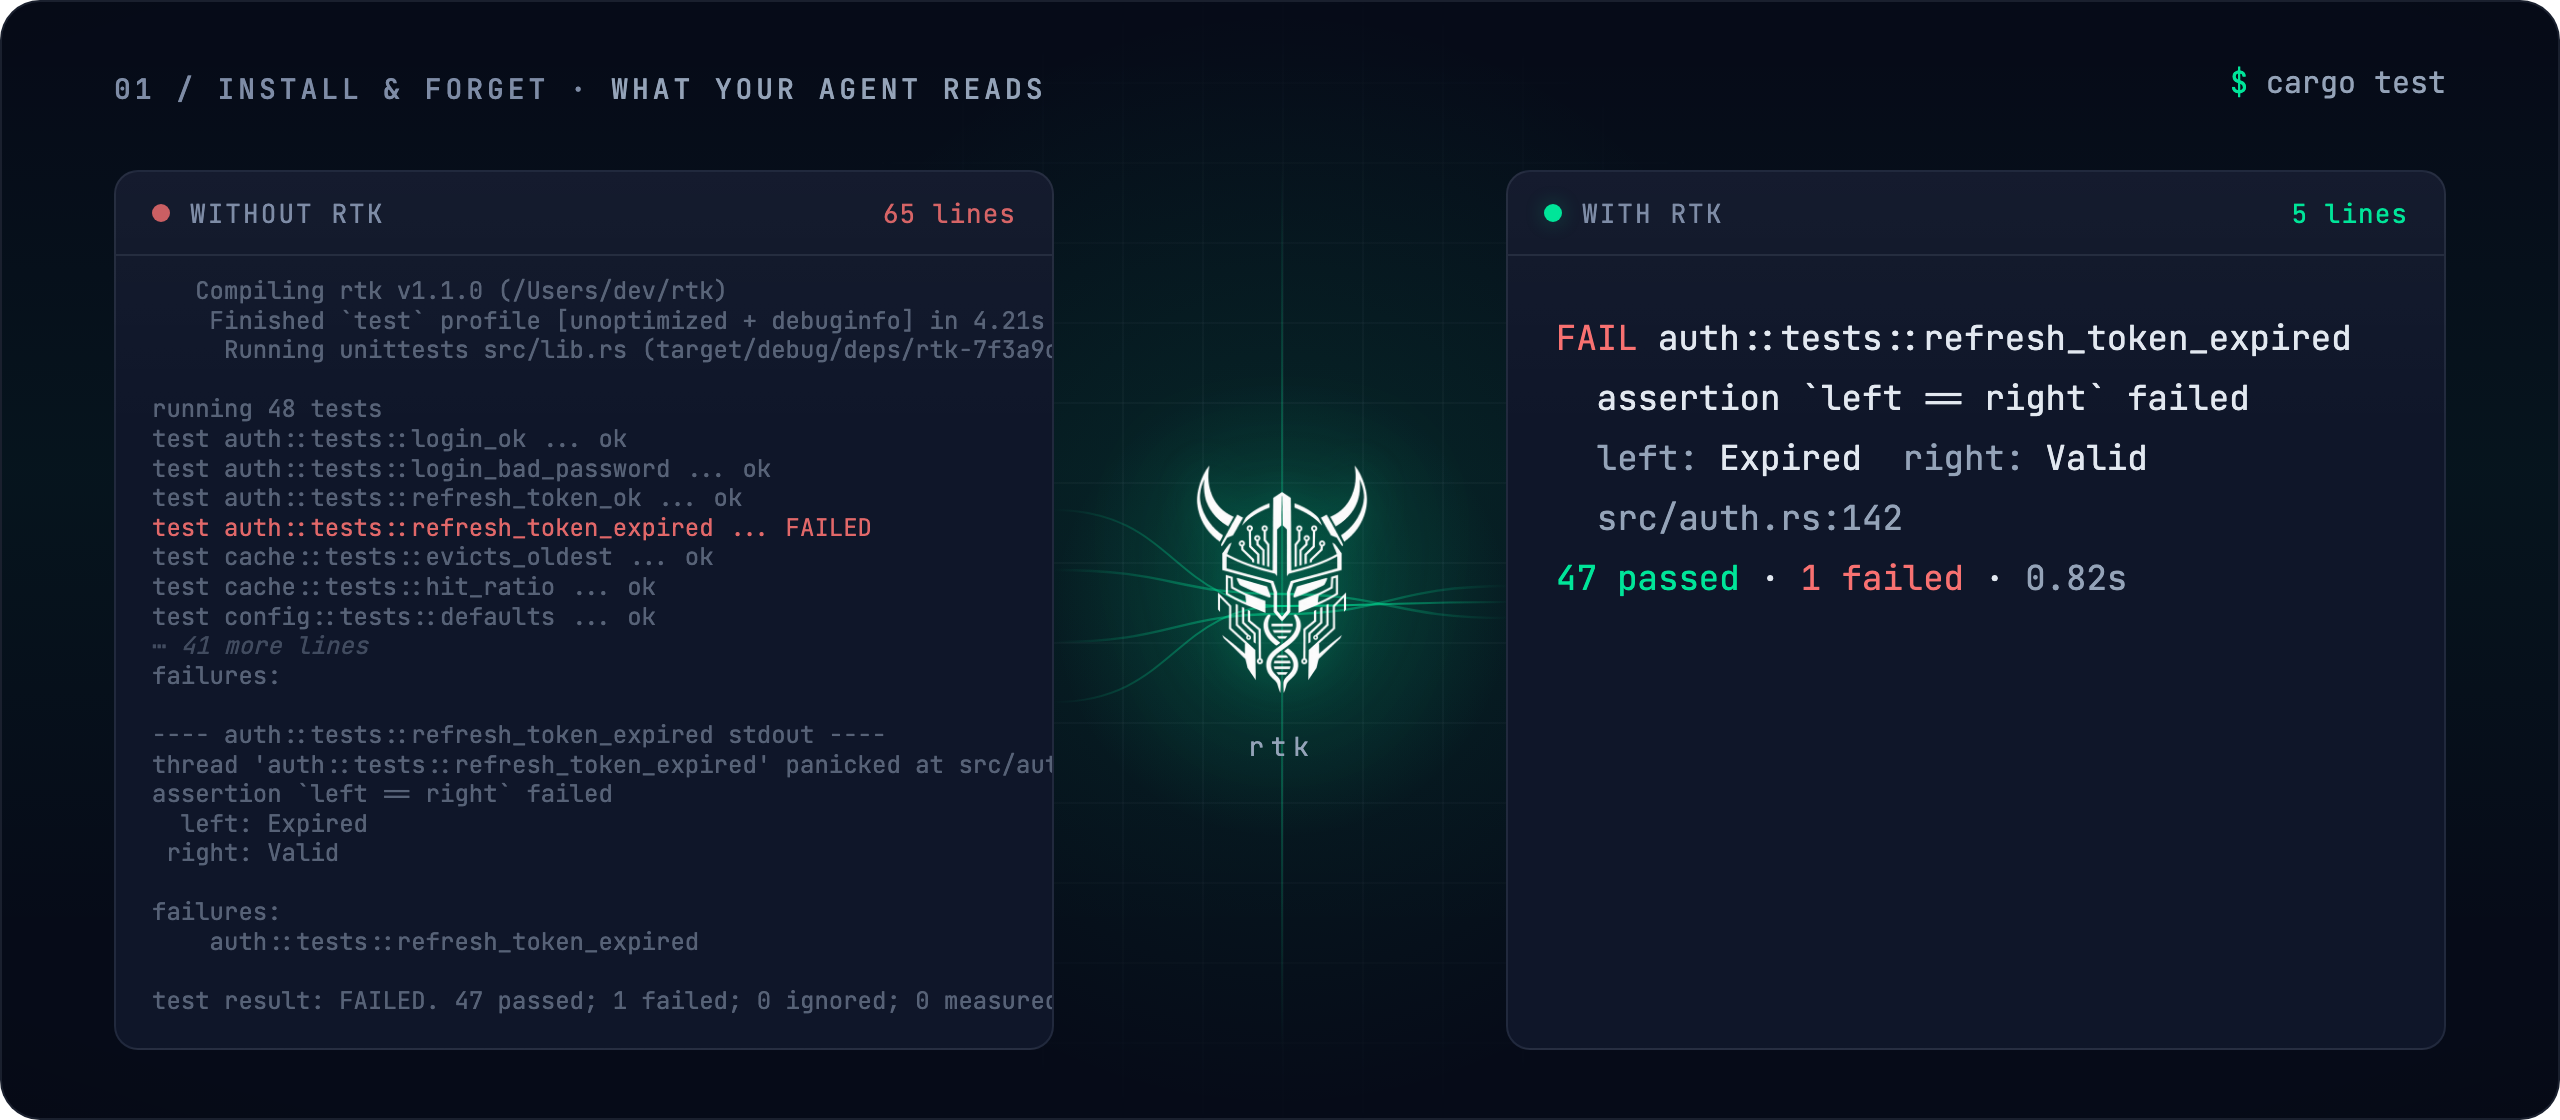
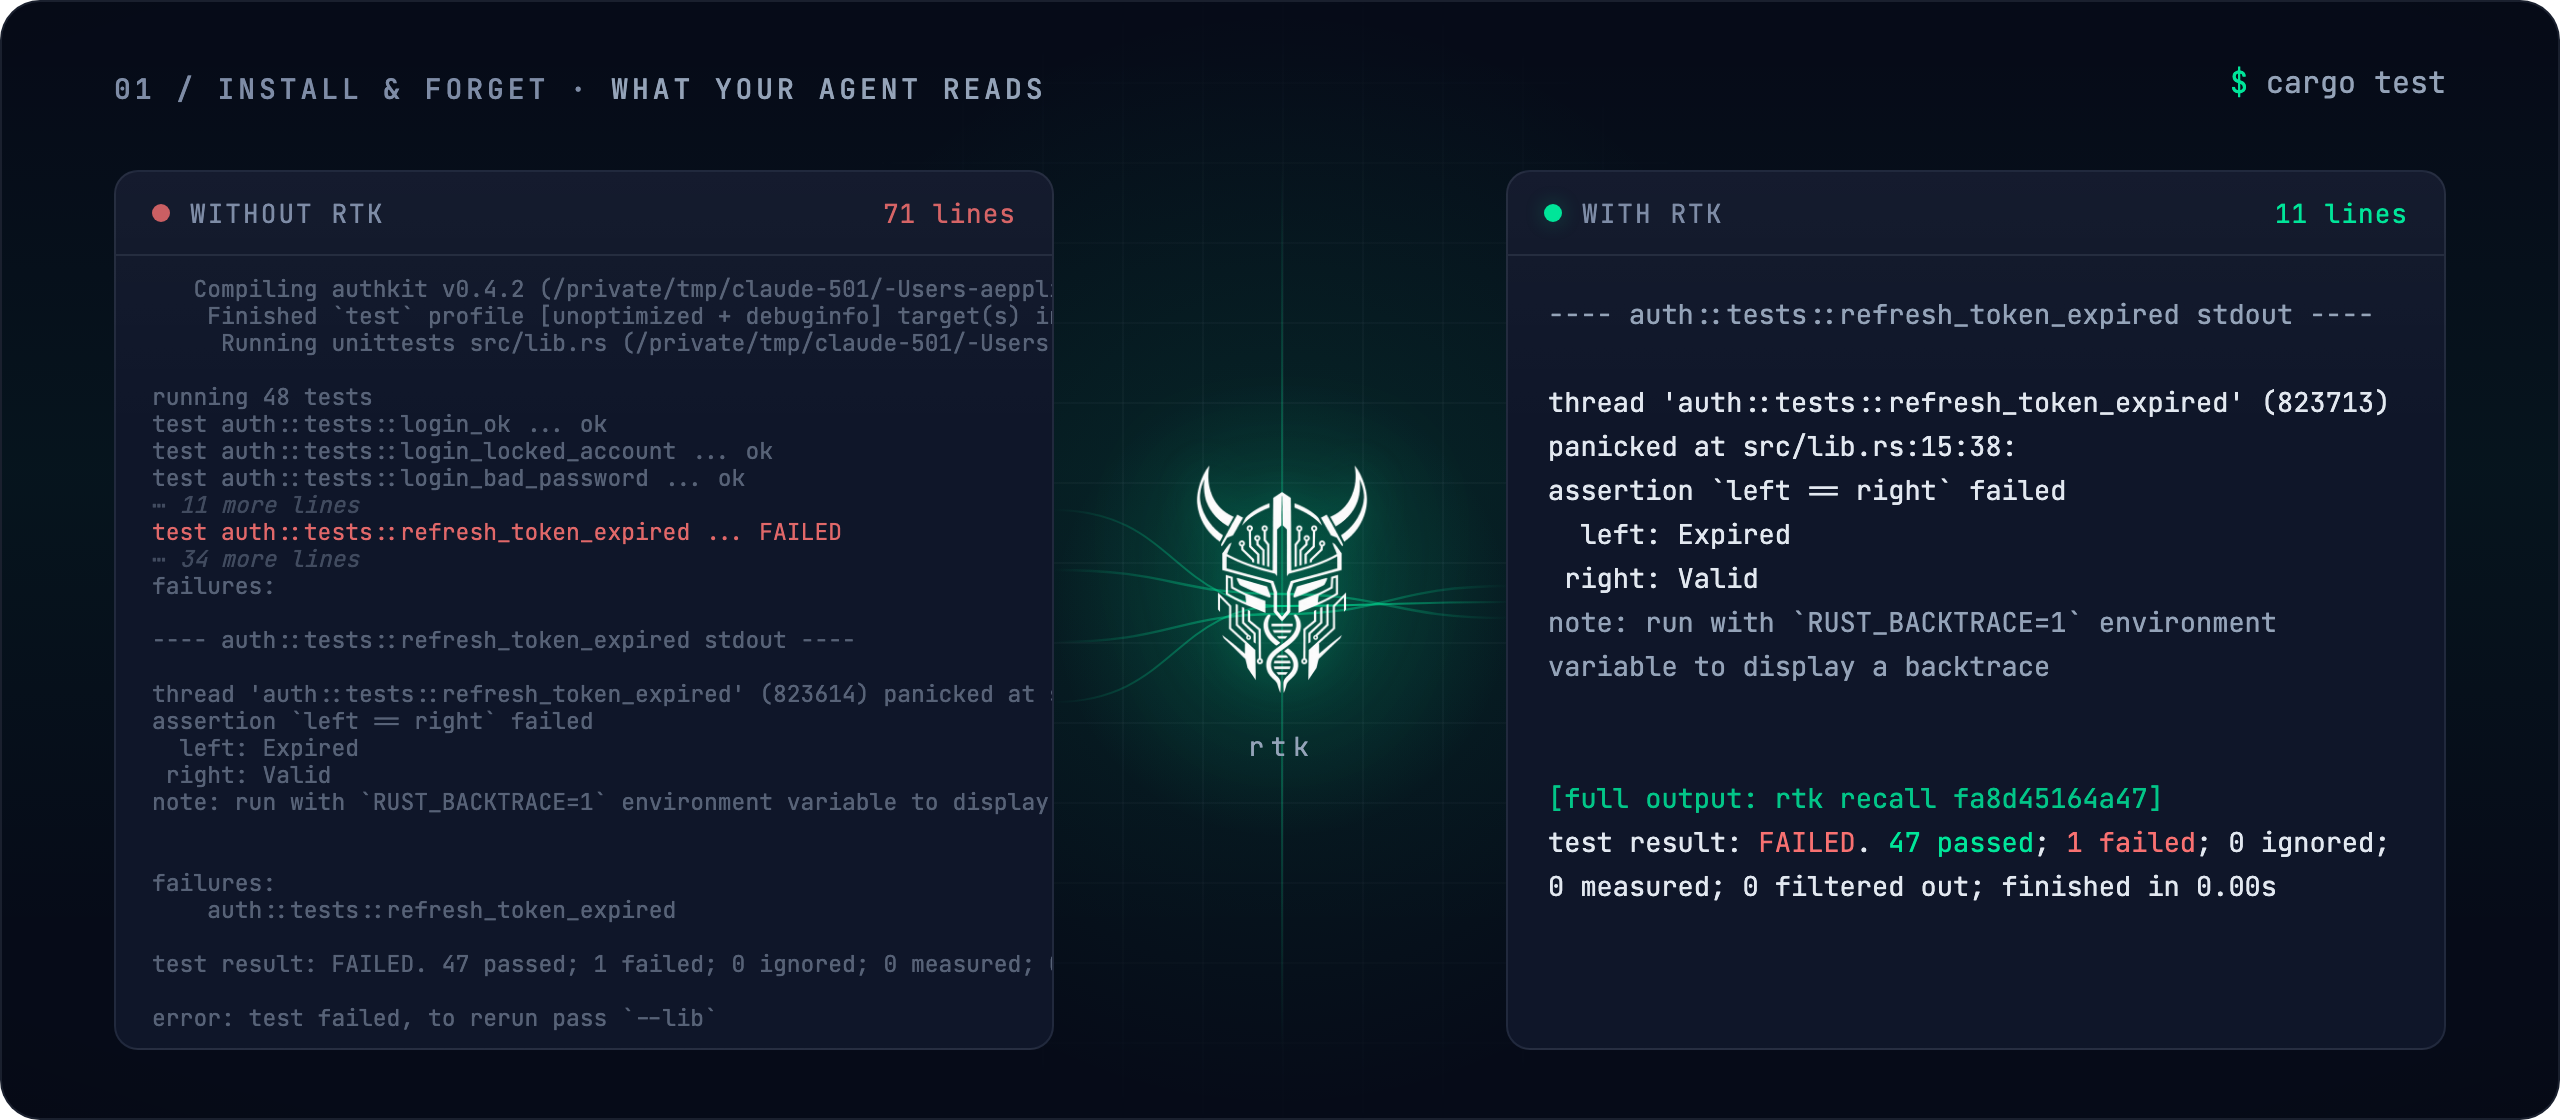
docs(readme): real cargo test output in the before/after, a feature showcase for pipelines
The before/after panel now shows a captured run, not invented text: a
48-test crate with one failing assertion, 71 raw lines through
`rtk bypass cargo test`, the 11 lines rtk prints, including its own
`[full output: rtk recall …]` line. Elisions in the raw panel carry
their exact counts.

The pipelines picture no longer draws hooks, lanes and rule names,
which told a reader how rtk is built rather than what it does for
them. It is now four cards, each a thing to turn on with the line
that turns it on, where it works, and the one number that is
measured, plus the share/install band with the best listed benchmark.

diff --git a/.github/assets/src/go-further.html b/.github/assets/src/go-further.html
@@ -1,0 +1,89 @@
+<!doctype html>
+<html><head><meta charset="utf-8">
+<!-- Each card maps to a shipped pipeline or command:
+     1 rtk:default (engine/builtin/default.toml)        2 rtk:posthook (posthook.toml, Claude Code)
+     3 rtk:delegate-reads (file_lines_gt = 350, Claude Code)  4 rtk:proxy + `rtk claude`
+     Numbers: "up to 90%" is command output; −20.2% is the best author benchmark listed on
+     rtk-ai.app/pipelines (laya-tiered). No other figure is published, so no other card has one. -->
+<link rel="preconnect" href="https://fonts.googleapis.com">
+<link href="https://fonts.googleapis.com/css2?family=Geist:wght@400;500;600&family=JetBrains+Mono:wght@400;500&display=block" rel="stylesheet">
+<style>
+:root{--bg:#060b18;--bg-card:#0f1629;--text:#e2e8f0;--text-bright:#f8fafc;--text-muted:#94a3b8;--text-dim:#7e8ca6;--accent:#00e599;--accent-hover:#00cc88;--accent-dim:rgba(0,229,153,.10);--accent-glow:rgba(0,229,153,.25);--scene:rgba(0,229,153,.09);--tint:rgba(0,229,153,.045);--vignette:rgba(0,0,0,.42);--grid:rgba(148,163,184,.05);--line:rgba(148,163,184,.14)}
+*{margin:0;padding:0;box-sizing:border-box}
+html,body{width:1280px;height:600px;background:transparent}
+.card{position:relative;width:1280px;height:600px;border-radius:20px;overflow:hidden;background:var(--bg);border:1px solid var(--line);isolation:isolate;font-family:'Geist','Inter',sans-serif;color:var(--text)}
+.atmo{position:absolute;inset:0;z-index:-1;background-image:
+ radial-gradient(ellipse 40% 80% at 18% 45%,var(--scene),transparent 62%),
+ linear-gradient(180deg,transparent 4%,var(--tint) 42%,transparent 84%),
+ radial-gradient(ellipse 120% 105% at 50% 48%,transparent 56%,var(--vignette) 100%)}
+.grid{position:absolute;inset:0;z-index:-1;background-image:linear-gradient(var(--grid) 1px,transparent 1px),linear-gradient(90deg,var(--grid) 1px,transparent 1px);background-size:40px 40px;-webkit-mask-image:radial-gradient(ellipse 40% 70% at 18% 45%,#000 20%,transparent 75%)}
+.eyebrow{position:absolute;left:56px;top:34px;font-family:'JetBrains Mono',monospace;font-weight:500;font-size:14px;letter-spacing:.14em;text-transform:uppercase;color:var(--text-dim)}
+.eyebrow b{color:var(--text-muted);font-weight:500}
+.file{position:absolute;right:56px;top:30px;font-family:'JetBrains Mono',monospace;font-size:15px;color:var(--text-muted)}
+.file span{color:var(--accent)}
+.row{position:absolute;left:56px;top:84px;display:flex;gap:22px}
+.c{position:relative;width:273px;height:352px;border:1px solid var(--line);border-radius:14px;background:linear-gradient(180deg,rgba(255,255,255,.025),transparent 30%),var(--bg-card);padding:22px 22px 18px;display:flex;flex-direction:column}
+.c.lit{border-color:rgba(0,229,153,.55);box-shadow:0 0 0 1px rgba(0,229,153,.10) inset,0 0 44px var(--accent-glow)}
+.chip{align-self:flex-start;font-family:'JetBrains Mono',monospace;font-size:10.5px;letter-spacing:.14em;text-transform:uppercase;padding:4px 9px;border-radius:999px;border:1px solid var(--line);color:var(--text-dim)}
+.lit .chip{border-color:rgba(0,229,153,.5);color:var(--accent);background:var(--accent-dim)}
+.c h3{margin-top:18px;font-size:24px;font-weight:600;line-height:1.12;letter-spacing:-.02em;color:var(--text-bright)}
+.c p{margin-top:12px;font-size:15.5px;line-height:1.45;color:var(--text-muted)}
+.stat{margin-top:auto;font-size:40px;font-weight:600;letter-spacing:-.03em;line-height:1;background:linear-gradient(180deg,color-mix(in srgb,var(--accent) 62%,var(--text-bright)) 0%,var(--accent) 58%,color-mix(in srgb,var(--accent-hover) 88%,var(--bg)) 100%);-webkit-background-clip:text;background-clip:text;-webkit-text-fill-color:transparent;filter:drop-shadow(0 0 18px var(--accent-dim))}
+.stat small{display:block;margin-top:6px;font-size:13px;font-weight:400;letter-spacing:0;-webkit-text-fill-color:var(--text-muted);filter:none}
+.where{margin-top:auto;font-family:'JetBrains Mono',monospace;font-size:12px;letter-spacing:.04em;color:var(--text-dim)}
+.where b{color:var(--text-muted);font-weight:500}
+.how{margin-top:12px;padding-top:12px;border-top:1px solid var(--line);font-family:'JetBrains Mono',monospace;font-size:12.5px;color:var(--text-muted);white-space:nowrap}
+.how span{color:var(--accent)}
+.band{position:absolute;left:56px;right:56px;top:462px;height:94px;border:1px solid var(--line);border-radius:14px;background:linear-gradient(180deg,rgba(255,255,255,.02),transparent 40%),rgba(15,22,41,.7);display:flex;align-items:center;padding:0 26px;gap:26px}
+.band img{width:46px;height:46px;filter:drop-shadow(0 0 8px var(--accent-glow)) drop-shadow(0 0 20px var(--accent-glow))}
+.band h4{font-size:19px;font-weight:600;color:var(--text-bright);letter-spacing:-.01em}
+.band p{margin-top:4px;font-family:'JetBrains Mono',monospace;font-size:13px;color:var(--text-muted)}
+.band p span{color:var(--accent)}
+.band .best{margin-left:auto;text-align:right}
+.band .best b{display:block;font-size:30px;font-weight:600;letter-spacing:-.03em;line-height:1;color:var(--accent)}
+.band .best small{display:block;margin-top:5px;font-family:'JetBrains Mono',monospace;font-size:11.5px;letter-spacing:.04em;color:var(--text-dim)}
+</style></head>
+<body><div class="card"><div class="atmo"></div><div class="grid"></div>
+<p class="eyebrow">02 / Go further · <b>one line at a time</b></p>
+<p class="file"><span>~/.config/rtk/</span>pipeline.toml</p>
+
+<div class="row">
+ <div class="c lit">
+  <span class="chip">on by default</span>
+  <h3>Less command output</h3>
+  <p>Test runs, diffs, logs and builds are compressed before your agent reads them. Every agent.</p>
+  <div class="stat">up to 90%<small>less command output</small></div>
+  <div class="how"><span>$</span> rtk init -g</div>
+ </div>
+ <div class="c">
+  <span class="chip">one line</span>
+  <h3>Every tool, not just the shell</h3>
+  <p>Grep results, web pages, lockfiles and any output rtk has no filter for get the same treatment.</p>
+  <div class="where"><b>Claude Code</b></div>
+  <div class="how">extends = <span>"rtk:posthook"</span></div>
+ </div>
+ <div class="c">
+  <span class="chip">bring a model</span>
+  <h3>Big files, read for you</h3>
+  <p>A read over 350 lines is answered by a cheaper model you choose. The file never enters your agent's context.</p>
+  <div class="where"><b>Claude Code</b> · your API key</div>
+  <div class="how">extends = <span>"rtk:delegate-reads"</span></div>
+ </div>
+ <div class="c">
+  <span class="chip">optional daemon</span>
+  <h3>Clean API traffic</h3>
+  <p>Noise stripped from the conversation your agent re-sends every turn, with the prompt cache kept intact.</p>
+  <div class="where">any agent you <b>point at it</b></div>
+  <div class="how"><span>$</span> rtk claude</div>
+ </div>
+</div>
+
+<div class="band">
+ <img src="helmet.webp" alt="">
+ <div>
+  <h4>Install a pipeline someone shared, or share yours</h4>
+  <p><span>$</span> rtk pipeline add github:user/repo &nbsp;·&nbsp; <span>$</span> rtk pipeline share publish</p>
+ </div>
+ <div class="best"><b>−20.2%</b><small>total cost · author's benchmark<br>best listed on rtk-ai.app/pipelines</small></div>
+</div>
+</div></body></html>

diff --git a/.github/assets/src/before-after.html b/.github/assets/src/before-after.html
@@ -1,9 +1,12 @@
 <!doctype html>
 <html><head><meta charset="utf-8">
+<!-- Real output. Captured with `rtk bypass cargo test` (left) and `rtk cargo test` (right)
+     on a 48-test crate with one failing assertion, rtk core 1.0.1. Only the lines marked
+     "⋯ N more lines" are elided; the counts are exact. -->
 <link rel="preconnect" href="https://fonts.googleapis.com">
 <link href="https://fonts.googleapis.com/css2?family=Geist:wght@400;500;600&family=JetBrains+Mono:wght@400;500&display=block" rel="stylesheet">
 <style>
-:root{--bg:#060b18;--bg-card:#0f1629;--text:#e2e8f0;--text-bright:#f8fafc;--text-muted:#94a3b8;--text-dim:#7e8ca6;--accent:#00e599;--accent-hover:#00cc88;--accent-dim:rgba(0,229,153,.10);--accent-glow:rgba(0,229,153,.25);--red:#f87171;--scene:rgba(0,229,153,.09);--tint:rgba(0,229,153,.045);--vignette:rgba(0,0,0,.42);--grid:rgba(148,163,184,.05);--line:rgba(148,163,184,.14)}
+:root{--bg:#060b18;--bg-card:#0f1629;--text:#e2e8f0;--text-bright:#f8fafc;--text-muted:#94a3b8;--text-dim:#7e8ca6;--accent:#00e599;--accent-dim:rgba(0,229,153,.10);--accent-glow:rgba(0,229,153,.25);--red:#f87171;--scene:rgba(0,229,153,.09);--tint:rgba(0,229,153,.045);--vignette:rgba(0,0,0,.42);--grid:rgba(148,163,184,.05);--line:rgba(148,163,184,.14)}
 *{margin:0;padding:0;box-sizing:border-box}
 html,body{width:1280px;height:560px;background:transparent}
 .card{position:relative;width:1280px;height:560px;border-radius:20px;overflow:hidden;background:var(--bg);border:1px solid var(--line);isolation:isolate;font-family:'Geist','Inter',sans-serif;color:var(--text)}
@@ -23,14 +26,15 @@ html,body{width:1280px;height:560px;background:transparent}
 .left .ph i{background:var(--red);opacity:.8}.right .ph i{background:var(--accent);box-shadow:0 0 10px var(--accent-glow)}
 .ph .n{margin-left:auto;letter-spacing:.04em;text-transform:none}
 .left .ph .n{color:var(--red);opacity:.85}.right .ph .n{color:var(--accent)}
-pre{font-family:'JetBrains Mono',monospace;white-space:pre}
-.left pre{padding:10px 18px;font-size:12px;line-height:14.8px;color:rgba(148,163,184,.55)}
+pre{font-family:'JetBrains Mono',monospace}
+.left pre{white-space:pre;padding:10px 18px;font-size:11.5px;line-height:13.5px;color:rgba(148,163,184,.55)}
 .left pre .f{color:var(--red);opacity:.9}
 .left pre .m{color:rgba(148,163,184,.38);font-style:italic}
-.right pre{padding:26px 24px;font-size:17px;line-height:30px;color:var(--text)}
+.right pre{white-space:pre-wrap;padding:18px 20px;font-size:13.5px;line-height:22px;color:var(--text)}
 .right pre .f{color:var(--red)}
 .right pre .ok{color:var(--accent)}
 .right pre .p{color:var(--text-muted)}
+.right pre .r{color:var(--accent);opacity:.85}
 .gate{position:absolute;left:526px;top:84px;width:228px;height:440px;display:flex;flex-direction:column;align-items:center;justify-content:center;gap:12px}
 .gate::before{content:'';position:absolute;left:50%;top:0;width:1px;height:100%;transform:translateX(-50%);background:linear-gradient(to bottom,transparent,var(--accent-glow) 30%,var(--accent-glow) 70%,transparent)}
 .gate::after{content:'';position:absolute;left:50%;top:50%;width:260px;height:260px;transform:translate(-50%,-50%);background:radial-gradient(circle,var(--accent-glow) 0%,transparent 62%);opacity:.7}
@@ -43,32 +47,35 @@ pre{font-family:'JetBrains Mono',monospace;white-space:pre}
 <p class="cmd"><span>$</span> cargo test</p>
 
 <div class="panel left">
- <div class="ph"><i></i>without rtk<span class="n">65 lines</span></div>
-<pre>   Compiling rtk v1.1.0 (/Users/dev/rtk)
-    Finished `test` profile [unoptimized + debuginfo] in 4.21s
-     Running unittests src/lib.rs (target/debug/deps/rtk-7f3a9c)
+ <div class="ph"><i></i>without rtk<span class="n">71 lines</span></div>
+<pre>   Compiling authkit v0.4.2 (/private/tmp/claude-501/-Users-aeppling--superconductor-worktrees-rtk-sc-flux-phonon-4e98/d36bac6a-c158-4776-8c24-adbe62511c7f/scratchpad/demo)
+    Finished `test` profile [unoptimized + debuginfo] target(s) in 0.52s
+     Running unittests src/lib.rs (/private/tmp/claude-501/-Users-aeppling--superconductor-worktrees-rtk-sc-flux-phonon-4e98/d36bac6a-c158-4776-8c24-adbe62511c7f/scratchpad/demo/target/debug/deps/authkit-7b3ad5cbf6b078ab)
 
 running 48 tests
 test auth::tests::login_ok ... ok
+test auth::tests::login_locked_account ... ok
 test auth::tests::login_bad_password ... ok
-test auth::tests::refresh_token_ok ... ok
+<span class="m">⋯ 11 more lines</span>
 <span class="f">test auth::tests::refresh_token_expired ... FAILED</span>
-test cache::tests::evicts_oldest ... ok
-test cache::tests::hit_ratio ... ok
-test config::tests::defaults ... ok
-<span class="m">⋯ 41 more lines</span>
+<span class="m">⋯ 34 more lines</span>
 failures:
 
 ---- auth::tests::refresh_token_expired stdout ----
-thread 'auth::tests::refresh_token_expired' panicked at src/auth.rs:142:9:
+
+thread 'auth::tests::refresh_token_expired' (823614) panicked at src/lib.rs:15:38:
 assertion `left == right` failed
   left: Expired
  right: Valid
+note: run with `RUST_BACKTRACE=1` environment variable to display a backtrace
+
 
 failures:
     auth::tests::refresh_token_expired
 
-test result: FAILED. 47 passed; 1 failed; 0 ignored; 0 measured; 0 filtered out; finished in 0.82s</pre>
+test result: FAILED. 47 passed; 1 failed; 0 ignored; 0 measured; 0 filtered out; finished in 0.00s
+
+error: test failed, to rerun pass `--lib`</pre>
 </div>
 
 <svg class="strand" viewBox="0 0 228 440" aria-hidden="true">
@@ -81,11 +88,17 @@ test result: FAILED. 47 passed; 1 failed; 0 ignored; 0 measured; 0 filtered out;
 <div class="gate"><img src="helmet.webp" alt=""><span class="lbl">rtk</span></div>
 
 <div class="panel right">
- <div class="ph"><i></i>with rtk<span class="n">5 lines</span></div>
-<pre><span class="f">FAIL</span> auth::tests::refresh_token_expired
-  assertion `left == right` failed
-  <span class="p">left:</span> Expired  <span class="p">right:</span> Valid
-  <span class="p">src/auth.rs:142</span>
-<span class="ok">47 passed</span> · <span class="f">1 failed</span> · <span class="p">0.82s</span></pre>
+ <div class="ph"><i></i>with rtk<span class="n">11 lines</span></div>
+<pre><span class="p">---- auth::tests::refresh_token_expired stdout ----</span>
+
+thread 'auth::tests::refresh_token_expired' (823713) panicked at src/lib.rs:15:38:
+assertion `left == right` failed
+  left: Expired
+ right: Valid
+<span class="p">note: run with `RUST_BACKTRACE=1` environment variable to display a backtrace</span>
+
+
+<span class="r">[full output: rtk recall fa8d45164a47]</span>
+test result: <span class="f">FAILED</span>. <span class="ok">47 passed</span>; <span class="f">1 failed</span>; 0 ignored; 0 measured; 0 filtered out; finished in 0.00s</pre>
 </div>
 </div></body></html>

diff --git a/README.md b/README.md
@@ -69,7 +69,7 @@ Restart your agent. That's it: when it runs `git status`, RTK runs `rtk git stat
 The part 85k developers starred. Built by 200+ contributors, written against real command output, and every filter has to cut at least 20% to ship.
 
 <p align="center">
-  <img src=".github/assets/before-after.png" alt="cargo test: 65 lines of raw output on the left; on the right, the 5 lines the agent reads with rtk: the failing test, its assertion, its location, and the pass/fail count">
+  <img src=".github/assets/before-after.png" alt="cargo test on a 48-test crate: 71 lines of raw output on the left; on the right, the 11 lines the agent reads with rtk: the failing test's panic, assertion and location, the pass/fail summary, and an rtk recall line to get the full output back">
 </p>
 
 | Operation | What the agent reads |
@@ -103,7 +103,7 @@ The hook rewrites shell commands. Built-in tools such as `Read`, `Grep` and `Glo
 Everything RTK does is written in one file, `pipeline.toml`: where RTK acts, when, and what it does. With no file you are on `rtk:default`, which is exactly the compressor above. Everything else is opt-in, one line at a time.
 
 <p align="center">
-  <img src=".github/assets/where-rtk-acts.png" alt="Where rtk acts: before each tool call it rewrites, blocks or routes the command (on by default); after the tool it can compress the output (opt-in); the RTK Proxy sits between the agent and the model provider (opt-in); tasks hand heavy reads to a cheaper model (opt-in); directives tell the agent how to behave">
+  <img src=".github/assets/go-further.png" alt="Four things a pipeline turns on, one line each: less command output (on by default, up to 90% less); every tool compressed, not just the shell (Claude Code); big files read by a cheaper model you choose (Claude Code, your API key); clean API traffic through the optional proxy. Below: install a pipeline someone shared or share yours; the best one listed cuts total cost by 20.2% in its author's benchmark">
 </p>
 
 Built-in pipelines, each one line away:
